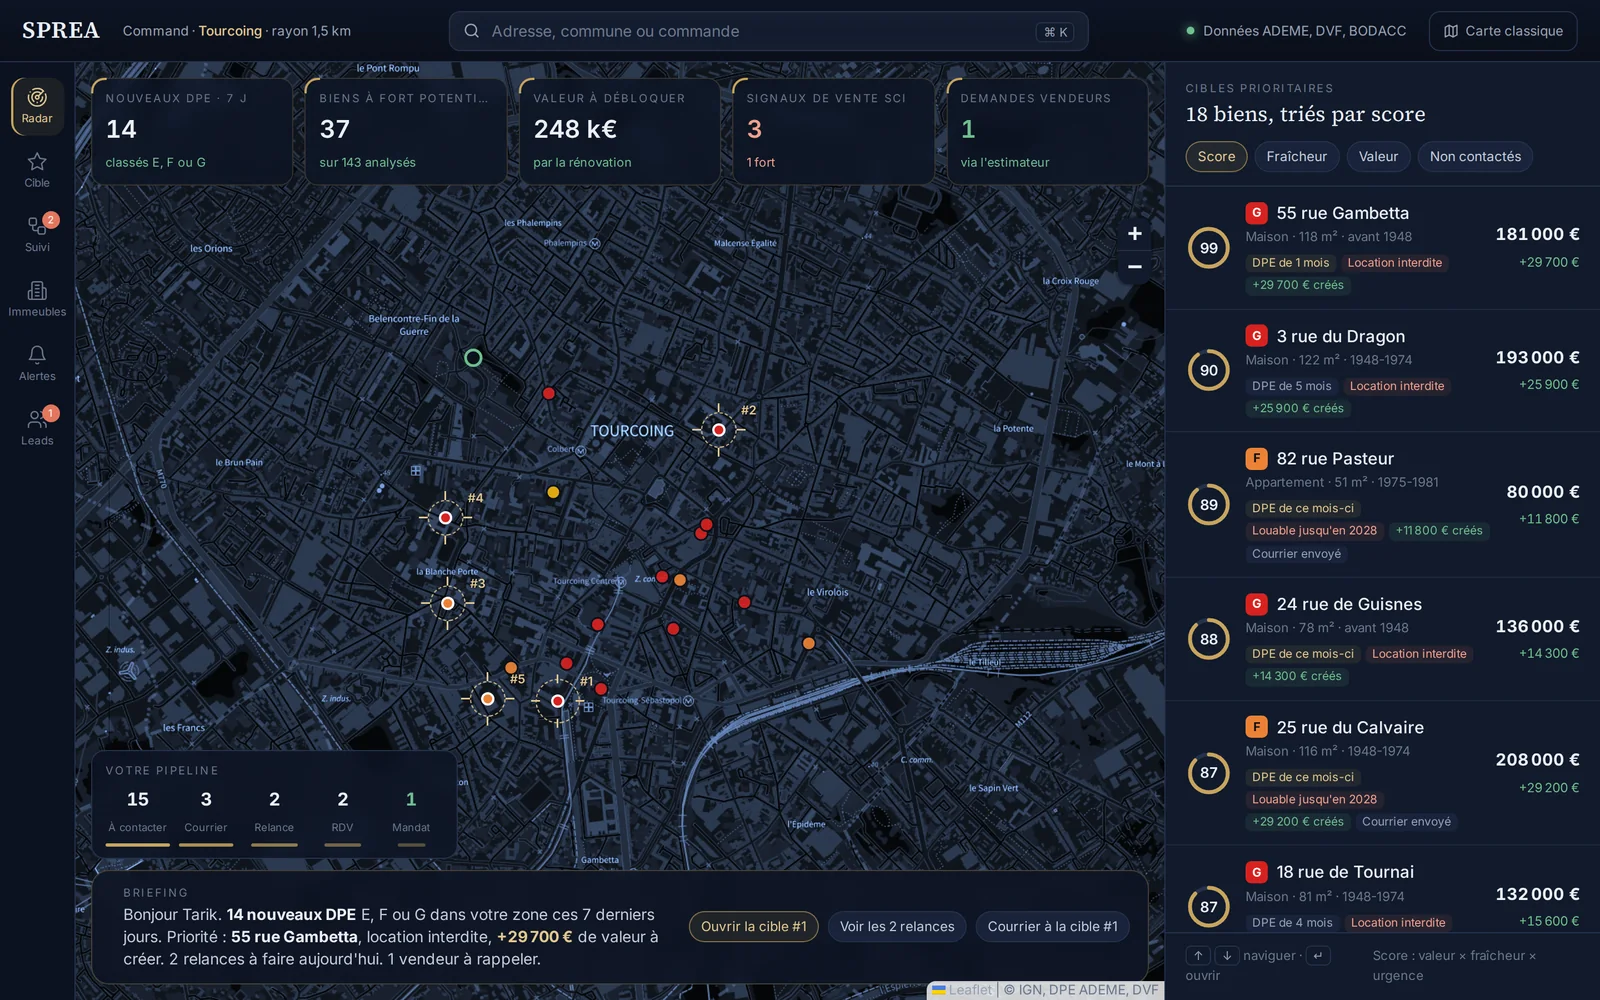
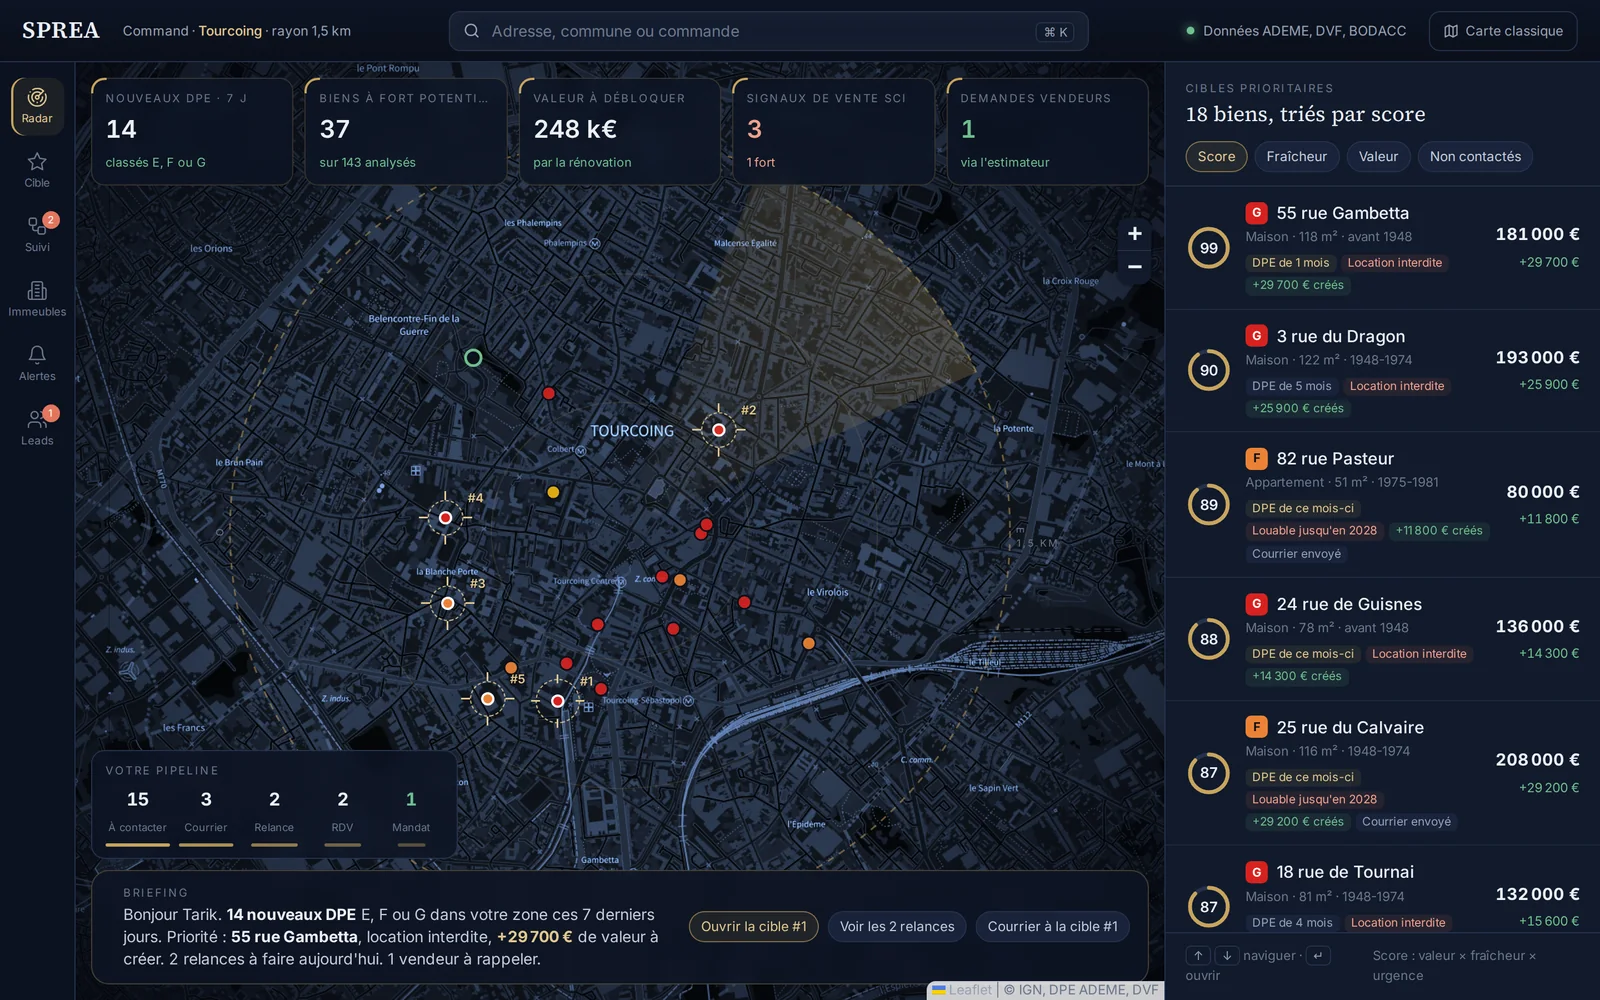
SPREA Command : le radar visible au-dessus du fond de carte, captures de la démo (#80)
* Estimator: email the requests no subscriber covers to SPREA, with every detail

The request goes to LEADS_TO (or QUOTES_TO) when no alert zone covers the address, so it can be passed on to an advisor of the area; both emails now show the range, rooms, DPE, condition and a map link.

Claude-Session: https://claude.ai/code/session_01PuYcbU6gG7VHUTYNwhFE8u

* Prospection: a sequence written for independent advisors

Four emails by first name, with the real price per m2 of their town (the /prix-m2 pages) and a preview line:
1. prospecting without cold calls (consent now required for prospecting calls; letters stay allowed): new DPE each morning, letter with QR code, before / after valuation; demo button, link to the town's prices
2. the owners of their town who ask to be called back (the free estimator routes them to the subscriber of the area); button to the estimator with the town prefilled
3. 79 EUR a month against one commission, 20 minutes on their own streets; button to the pricing
4. last message, the town's prices stay free
Agencies keep their sequence. UTM per email (utm_content=mailN).

Claude-Session: https://claude.ai/code/session_01PuYcbU6gG7VHUTYNwhFE8u

* Advisor email 1: every SPREA feature, in three steps of prospecting (find the sellers, contact them, sign and sell)

Claude-Session: https://claude.ai/code/session_01PuYcbU6gG7VHUTYNwhFE8u

* Bouton « Connaître le propriétaire » : demande L107 A pré-remplie avec la parcelle cadastrale
[…]

diff --git a/src/pages/Command.tsx b/src/pages/Command.tsx
@@ -479,10 +479,11 @@ export default function CommandPage() {
                 {/* Main */}
                 <section className="relative flex-1 min-h-0 overflow-hidden">
                     <div ref={setMapEl} className={`sprea-map cmd-map absolute inset-0 ${view === 'suivi' ? 'invisible' : ''}`} />
-                    {view !== 'suivi' && <div className="absolute inset-0 pointer-events-none cmd-vignette" />}
+                    {/* Above the map tiles (Leaflet panes: tiles 200, shapes 400, markers 600) */}
+                    {view !== 'suivi' && <div className="absolute inset-0 z-[405] pointer-events-none cmd-vignette" />}
 
                     {view === 'radar' && radar && radar.r > 20 && (
-                        <svg className="absolute inset-0 pointer-events-none" width="100%" height="100%" aria-hidden>
+                        <svg className="absolute inset-0 z-[410] pointer-events-none" width="100%" height="100%" aria-hidden>
                             <g transform={`translate(${radar.x} ${radar.y})`}>
                                 {[1, 0.66, 0.33].map((k, i) => (
                                     <circle key={k} r={radar.r * k} fill="none" stroke="#C9A45C" strokeOpacity={i ? 0.16 : 0.5} strokeWidth={i ? 1 : 1.6} strokeDasharray={i ? undefined : '6 6'} />
